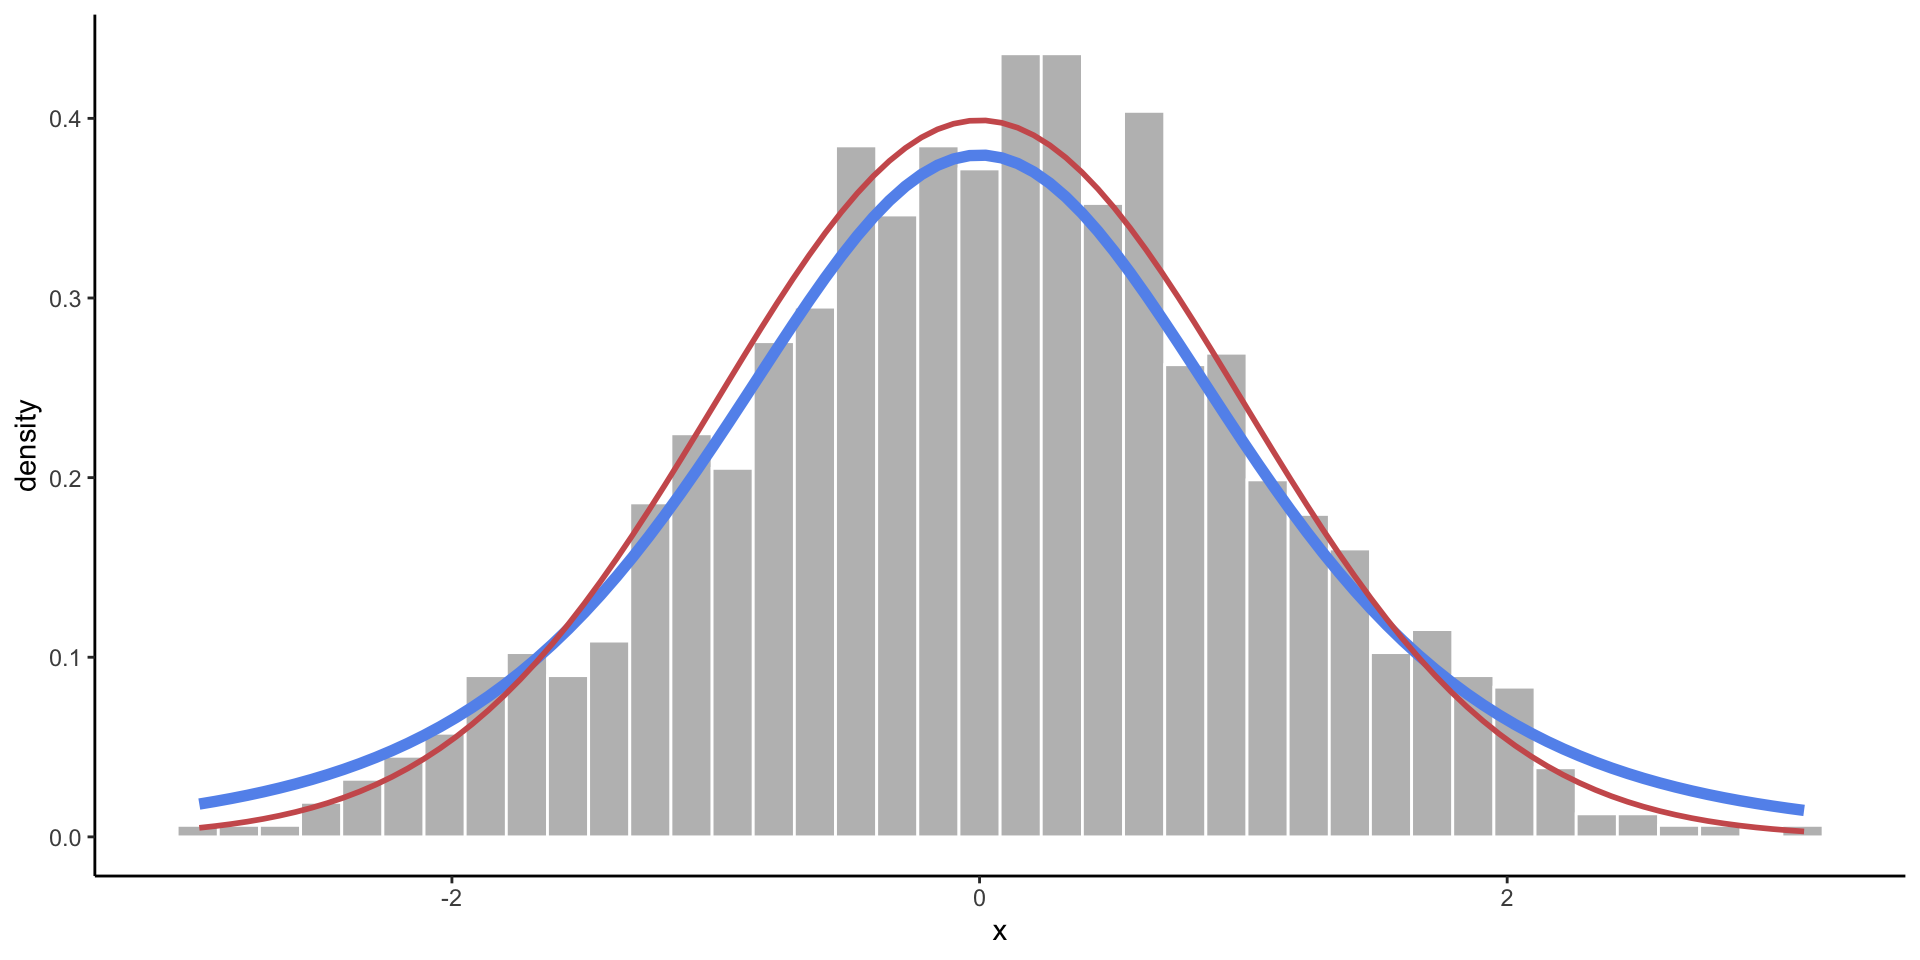
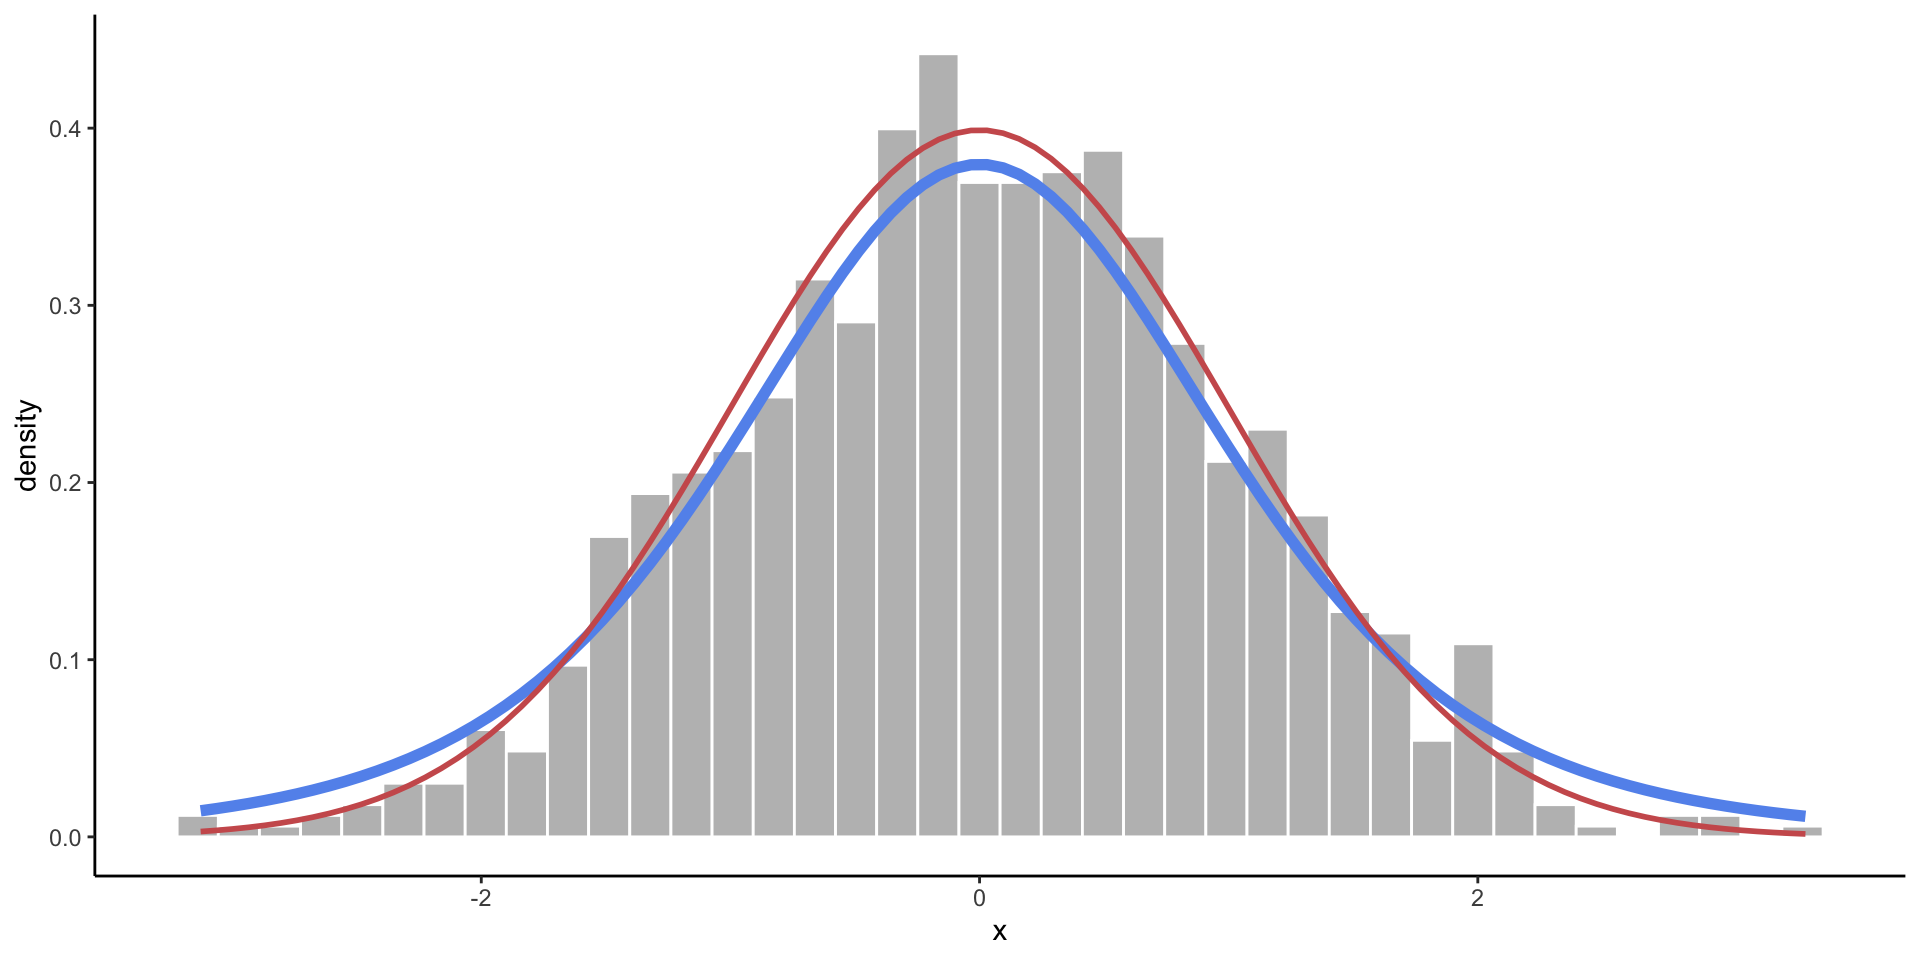
finish slides!

Changed region(s): [[0.0938, 0.0312, 0.9375, 0.875]]

diff --git a/docs/slides/week-9/data-simulation-part-1.html b/docs/slides/week-9/data-simulation-part-1.html
@@ -405,6 +405,7 @@
 <h2>Tuesday, November 19</h2>
 <p>Today we will…</p>
 <ul>
+<li>Plan for Week 9 &amp; 10</li>
 <li>New Material
 <ul>
 <li>Statistical Distributions</li>
@@ -413,6 +414,42 @@
 <li>PA 9: Instrument Con</li>
 </ul>
 </section></section>
+<section id="week-9" class="title-slide slide level1 center">
+<h1>Week 9</h1>
+<div class="fragment">
+<ul>
+<li>PA 9 (today)</li>
+<li>Lab 9 &amp; Challenge 9 (last ones!)</li>
+<li>Revisions on Lab 7 (due Friday)</li>
+<li>Code Review Lab 8 (due Sunday)</li>
+</ul>
+</div>
+</section>
+
+<section id="week-10" class="title-slide slide level1 center">
+<h1>Week 10</h1>
+<div class="fragment">
+<ul>
+<li>Final Portfolio Week!</li>
+</ul>
+</div>
+<div class="fragment">
+<div class="callout callout-warning callout-titled callout-style-default">
+<div class="callout-body">
+<div class="callout-title">
+<div class="callout-icon-container">
+<i class="callout-icon"></i>
+</div>
+<p><strong>Warning</strong></p>
+</div>
+<div class="callout-content">
+<p>No revisions will be accepted on Lab 8 or Lab 9. You can, however, talk with me during class about any revisions you’ve made. :)</p>
+</div>
+</div>
+</div>
+</div>
+</section>
+
 <section>
 <section id="statistical-distributions" class="title-slide slide level1 center">
 <h1>Statistical Distributions</h1>
@@ -433,7 +470,7 @@
 </ul>
 </div>
 <div id="tabset-1-2">
-<p>The <strong>distribution</strong> of a random variable tells us its <strong>possible values</strong> and <strong>how likely they are</strong>.</p>
+<p>The <strong>distribution</strong> of a random variable tells us its <strong>possible values</strong> and <strong>how likely they are to occur</strong>.</p>
 <div class="columns">
 <div class="column" style="width:73%;">
 <ul>
@@ -499,7 +536,7 @@
 <div class="column">
 <ul>
 <li>A slightly <strong>wider</strong> bell curve.</li>
-<li>Basically used in the same context as the <strong>normal distribution</strong>, but more common with real data (when the <em>standard deviation</em> is unknown).</li>
+<li>Basically used in the same context as the <strong>Normal distribution</strong>, but more common with real data (when the <em>standard deviation</em> is unknown).</li>
 </ul>
 </div><div class="column">
 <div class="cell">
@@ -537,9 +574,12 @@
 <p><strong>Binomial Distribution</strong></p>
 <div class="columns">
 <div class="column">
+<div class="midi">
 <ul>
 <li>Appears when you have <strong>two possible outcomes</strong>, and you are <strong>counting</strong> how many times each outcome occurred.</li>
+<li>This is a <em>discrete</em> distribution, as there can only be whole number values!</li>
 </ul>
+</div>
 </div><div class="column">
 <div class="cell">
 <div class="cell-output-display">
@@ -562,39 +602,45 @@
 <div class="tab-content">
 <div id="tabset-3-1">
 <p><code>r</code> is for <strong>random sampling</strong>.</p>
+<div class="midi">
 <ul>
 <li>Generate random values from a distribution.</li>
 <li>We use this to <strong>simulate</strong> data (create pretend observations).</li>
 </ul>
+</div>
 <div class="columns">
 <div class="column">
+<div class="midi">
 <div class="cell">
 <div class="sourceCode cell-code" id="cb1"><pre class="sourceCode r code-with-copy"><code class="sourceCode r"><span id="cb1-1"><a aria-hidden="true" tabindex="-1"></a><span class="fu">runif</span>(<span class="at">n =</span> <span class="dv">3</span>, <span class="at">min =</span> <span class="dv">10</span>, <span class="at">max =</span> <span class="dv">20</span>)</span></code><button title="Copy to Clipboard" class="code-copy-button"><i class="bi"></i></button></pre></div>
 <div class="cell-output cell-output-stdout">
-<pre><code>[1] 12.76805 12.43247 13.86344</code></pre>
+<pre><code>[1] 18.28105 18.16155 14.61340</code></pre>
 </div>
 <div class="sourceCode cell-code" id="cb3"><pre class="sourceCode r code-with-copy"><code class="sourceCode r"><span id="cb3-1"><a aria-hidden="true" tabindex="-1"></a><span class="fu">rnorm</span>(<span class="at">n =</span> <span class="dv">3</span>)</span></code><button title="Copy to Clipboard" class="code-copy-button"><i class="bi"></i></button></pre></div>
 <div class="cell-output cell-output-stdout">
-<pre><code>[1]  1.085568 -1.013050 -1.009345</code></pre>
+<pre><code>[1] -1.5269572 -0.7389727 -1.8418992</code></pre>
 </div>
 <div class="sourceCode cell-code" id="cb5"><pre class="sourceCode r code-with-copy"><code class="sourceCode r"><span id="cb5-1"><a aria-hidden="true" tabindex="-1"></a><span class="fu">rnorm</span>(<span class="at">n =</span> <span class="dv">3</span>, <span class="at">mean =</span> <span class="sc">-</span><span class="dv">100</span>, <span class="at">sd =</span> <span class="dv">50</span>)</span></code><button title="Copy to Clipboard" class="code-copy-button"><i class="bi"></i></button></pre></div>
 <div class="cell-output cell-output-stdout">
-<pre><code>[1] -218.22589   24.29219 -159.05680</code></pre>
+<pre><code>[1] -128.3596 -126.0511 -165.9438</code></pre>
+</div>
 </div>
 </div>
 </div><div class="column">
+<div class="midi">
 <div class="cell">
 <div class="sourceCode cell-code" id="cb7"><pre class="sourceCode r code-with-copy"><code class="sourceCode r"><span id="cb7-1"><a aria-hidden="true" tabindex="-1"></a><span class="fu">rt</span>(<span class="at">n =</span> <span class="dv">3</span>, <span class="at">df =</span> <span class="dv">11</span>)</span></code><button title="Copy to Clipboard" class="code-copy-button"><i class="bi"></i></button></pre></div>
 <div class="cell-output cell-output-stdout">
-<pre><code>[1]  0.76289106 -0.08866702  0.45013585</code></pre>
+<pre><code>[1] -2.1747340 -1.2847589 -0.2904043</code></pre>
 </div>
 <div class="sourceCode cell-code" id="cb9"><pre class="sourceCode r code-with-copy"><code class="sourceCode r"><span id="cb9-1"><a aria-hidden="true" tabindex="-1"></a><span class="fu">rbinom</span>(<span class="at">n =</span> <span class="dv">3</span>, <span class="at">size =</span> <span class="dv">10</span>, <span class="at">prob =</span> <span class="fl">0.7</span>)</span></code><button title="Copy to Clipboard" class="code-copy-button"><i class="bi"></i></button></pre></div>
 <div class="cell-output cell-output-stdout">
-<pre><code>[1] 8 7 6</code></pre>
+<pre><code>[1] 9 9 7</code></pre>
 </div>
 <div class="sourceCode cell-code" id="cb11"><pre class="sourceCode r code-with-copy"><code class="sourceCode r"><span id="cb11-1"><a aria-hidden="true" tabindex="-1"></a><span class="fu">rchisq</span>(<span class="at">n =</span> <span class="dv">3</span>, <span class="at">df =</span> <span class="dv">11</span>)</span></code><button title="Copy to Clipboard" class="code-copy-button"><i class="bi"></i></button></pre></div>
 <div class="cell-output cell-output-stdout">
-<pre><code>[1] 11.971750  3.255465  9.327559</code></pre>
+<pre><code>[1]  9.753476 12.757807 17.098437</code></pre>
+</div>
 </div>
 </div>
 </div></div>
@@ -649,11 +695,13 @@
 </div>
 <div id="tabset-3-4">
 <p><code>d</code> is for <strong>density</strong>.</p>
+<div class="midi">
 <ul>
 <li>Compute the <em>height</em> of a distribution curve at a given <span class="math inline">\(x\)</span>.</li>
 <li>For <strong>discrete</strong> dist: probability of getting <strong>exactly</strong> <span class="math inline">\(x\)</span>.</li>
 <li>For <strong>continuous</strong> dist: usually meaningless.</li>
 </ul>
+</div>
 <p>Probability of <em>exactly</em> 12 heads in 20 coin tosses, with a 70% chance of tails?</p>
 <div class="cell">
 <div class="sourceCode cell-code" id="cb25"><pre class="sourceCode r code-with-copy"><code class="sourceCode r"><span id="cb25-1"><a aria-hidden="true" tabindex="-1"></a><span class="fu">dbinom</span>(<span class="at">x =</span> <span class="dv">12</span>, <span class="at">size =</span> <span class="dv">20</span>, <span class="at">prob =</span> <span class="fl">0.3</span>)</span></code><button title="Copy to Clipboard" class="code-copy-button"><i class="bi"></i></button></pre></div>
@@ -776,57 +824,71 @@
 </div>
 </div>
 <div id="tabset-4-2">
+<div class="midi">
 <p>Since there is randomness involved, we will get a different result each time we run the code.</p>
+</div>
 <div class="columns">
 <div class="column" style="width:50%;">
+<div class="midi">
 <div class="cell">
 <div class="sourceCode cell-code" id="cb28"><pre class="sourceCode r code-with-copy"><code class="sourceCode r"><span id="cb28-1"><a aria-hidden="true" tabindex="-1"></a><span class="fu">runif</span>(<span class="dv">3</span>, <span class="at">min =</span> <span class="dv">15</span>, <span class="at">max =</span> <span class="dv">75</span>)</span></code><button title="Copy to Clipboard" class="code-copy-button"><i class="bi"></i></button></pre></div>
 <div class="cell-output cell-output-stdout">
-<pre><code>[1] 32.94482 74.59062 55.11581</code></pre>
+<pre><code>[1] 30.11175 37.99436 58.48137</code></pre>
+</div>
 </div>
 </div>
 </div><div class="column" style="width:50%;">
+<div class="midi">
 <div class="cell">
 <div class="sourceCode cell-code" id="cb30"><pre class="sourceCode r code-with-copy"><code class="sourceCode r"><span id="cb30-1"><a aria-hidden="true" tabindex="-1"></a><span class="fu">runif</span>(<span class="dv">3</span>, <span class="at">min =</span> <span class="dv">15</span>, <span class="at">max =</span> <span class="dv">75</span>)</span></code><button title="Copy to Clipboard" class="code-copy-button"><i class="bi"></i></button></pre></div>
 <div class="cell-output cell-output-stdout">
-<pre><code>[1] 46.33388 19.46952 27.70553</code></pre>
+<pre><code>[1] 74.01642 36.86288 72.32861</code></pre>
+</div>
 </div>
 </div>
 </div></div>
 <p><br></p>
 <div class="fragment">
+<div class="midi">
 <p>To make a <strong>reproducible</strong> random sample, we first <strong>set the seed</strong>:</p>
+</div>
 <div class="columns">
 <div class="column" style="width:50%;">
+<div class="midi">
 <div class="cell">
-<div class="sourceCode cell-code" id="cb32"><pre class="sourceCode r code-with-copy"><code class="sourceCode r"><span id="cb32-1"><a aria-hidden="true" tabindex="-1"></a><span class="fu">set.seed</span>(<span class="dv">94301</span>)</span>
+<div class="sourceCode cell-code" id="cb32"><pre class="sourceCode r code-with-copy"><code class="sourceCode r"><span id="cb32-1"><a aria-hidden="true" tabindex="-1"></a><span class="fu">set.seed</span>(<span class="dv">93401</span>)</span>
 <span id="cb32-2"><a aria-hidden="true" tabindex="-1"></a><span class="fu">runif</span>(<span class="dv">3</span>, <span class="at">min =</span> <span class="dv">15</span>, <span class="at">max =</span> <span class="dv">75</span>)</span></code><button title="Copy to Clipboard" class="code-copy-button"><i class="bi"></i></button></pre></div>
 <div class="cell-output cell-output-stdout">
-<pre><code>[1] 59.68333 30.27768 38.29962</code></pre>
+<pre><code>[1] 20.84739 51.61768 42.68515</code></pre>
+</div>
 </div>
 </div>
 </div><div class="column" style="width:50%;">
+<div class="midi">
 <div class="cell">
-<div class="sourceCode cell-code" id="cb34"><pre class="sourceCode r code-with-copy"><code class="sourceCode r"><span id="cb34-1"><a aria-hidden="true" tabindex="-1"></a><span class="fu">set.seed</span>(<span class="dv">94301</span>)</span>
+<div class="sourceCode cell-code" id="cb34"><pre class="sourceCode r code-with-copy"><code class="sourceCode r"><span id="cb34-1"><a aria-hidden="true" tabindex="-1"></a><span class="fu">set.seed</span>(<span class="dv">93401</span>)</span>
 <span id="cb34-2"><a aria-hidden="true" tabindex="-1"></a><span class="fu">runif</span>(<span class="dv">3</span>, <span class="at">min =</span> <span class="dv">15</span>, <span class="at">max =</span> <span class="dv">75</span>)</span></code><button title="Copy to Clipboard" class="code-copy-button"><i class="bi"></i></button></pre></div>
 <div class="cell-output cell-output-stdout">
-<pre><code>[1] 59.68333 30.27768 38.29962</code></pre>
+<pre><code>[1] 20.84739 51.61768 42.68515</code></pre>
+</div>
 </div>
 </div>
 </div></div>
 </div>
 </div>
 <div id="tabset-4-3">
+<div class="small">
 <div class="cell">
 <div class="sourceCode cell-code" id="cb36" data-code-line-numbers="4-6"><pre class="sourceCode numberSource r number-lines code-with-copy"><code class="sourceCode r"><span id="cb36-1"><a></a><span class="fu">set.seed</span>(<span class="dv">435</span>)</span>
 <span id="cb36-2"><a></a></span>
 <span id="cb36-3"><a></a>fake_data <span class="ot">&lt;-</span> <span class="fu">tibble</span>(<span class="at">names   =</span> charlatan<span class="sc">::</span><span class="fu">ch_name</span>(<span class="dv">1000</span>),</span>
-<span id="cb36-4"><a></a>        <span class="at">height  =</span> <span class="fu">rnorm</span>(<span class="dv">1000</span>, <span class="at">mean =</span> <span class="dv">67</span>, <span class="at">sd =</span> <span class="dv">3</span>),</span>
-<span id="cb36-5"><a></a>        <span class="at">age     =</span> <span class="fu">runif</span>(<span class="dv">1000</span>, <span class="at">min =</span> <span class="dv">15</span>, <span class="at">max =</span> <span class="dv">75</span>),</span>
-<span id="cb36-6"><a></a>        <span class="at">measure =</span> <span class="fu">rbinom</span>(<span class="dv">1000</span>, <span class="at">size =</span> <span class="dv">1</span>, <span class="at">prob =</span> <span class="fl">0.6</span>)) <span class="sc">|&gt;</span> </span>
-<span id="cb36-7"><a></a>  <span class="fu">mutate</span>(<span class="at">supports_measure_A =</span> <span class="fu">ifelse</span>(measure <span class="sc">==</span> <span class="dv">1</span>, <span class="st">"yes"</span>, <span class="st">"no"</span>))</span>
-<span id="cb36-8"><a></a></span>
-<span id="cb36-9"><a></a><span class="fu">head</span>(fake_data)</span></code><button title="Copy to Clipboard" class="code-copy-button"><i class="bi"></i></button></pre></div>
+<span id="cb36-4"><a></a>                    <span class="at">height  =</span> <span class="fu">rnorm</span>(<span class="dv">1000</span>, <span class="at">mean =</span> <span class="dv">67</span>, <span class="at">sd =</span> <span class="dv">3</span>),</span>
+<span id="cb36-5"><a></a>                    <span class="at">age     =</span> <span class="fu">runif</span>(<span class="dv">1000</span>, <span class="at">min =</span> <span class="dv">15</span>, <span class="at">max =</span> <span class="dv">75</span>),</span>
+<span id="cb36-6"><a></a>                    <span class="at">measure =</span> <span class="fu">rbinom</span>(<span class="dv">1000</span>, <span class="at">size =</span> <span class="dv">1</span>, <span class="at">prob =</span> <span class="fl">0.6</span>)</span>
+<span id="cb36-7"><a></a>                    ) <span class="sc">|&gt;</span> </span>
+<span id="cb36-8"><a></a>  <span class="fu">mutate</span>(<span class="at">supports_measure_A =</span> <span class="fu">ifelse</span>(measure <span class="sc">==</span> <span class="dv">1</span>, <span class="st">"yes"</span>, <span class="st">"no"</span>))</span>
+<span id="cb36-9"><a></a></span>
+<span id="cb36-10"><a></a><span class="fu">head</span>(fake_data)</span></code><button title="Copy to Clipboard" class="code-copy-button"><i class="bi"></i></button></pre></div>
 <div class="cell-output cell-output-stdout">
 <pre><code># A tibble: 6 × 5
   names                 height   age measure supports_measure_A
@@ -837,6 +899,7 @@
 4 Humberto Corwin         67.5  33.9       1 yes               
 5 Theresia Koelpin        71.4  16.1       1 yes               
 6 Hayden O'Reilly-Johns   66.2  37.0       0 no                </code></pre>
+</div>
 </div>
 </div>
 </div>
@@ -872,8 +935,8 @@
 </div>
 </section></section>
 <section>
-<section id="pa-9.1-instrument-con" class="title-slide slide level1 center">
-<h1><a href="../../group-activities/week-9/PA-9.html">PA 9.1: Instrument Con</a></h1>
+<section id="pa-9-instrument-con" class="title-slide slide level1 center">
+<h1><a href="../../group-activities/week-9/PA-9.html">PA 9: Instrument Con</a></h1>
 <blockquote>
 <p>Is the instrument salesman selling fake instruments?</p>
 </blockquote>
@@ -928,6 +991,8 @@
 <p>You and your partner together should address the following questions:</p>
 <blockquote>
 <p>How many of these samples had a weight less than or equal to Professor Hill’s shipment?</p>
+</blockquote>
+<blockquote>
 <p>Do you beleive Professor Hill ordered genuine instruments?</p>
 </blockquote>
 
